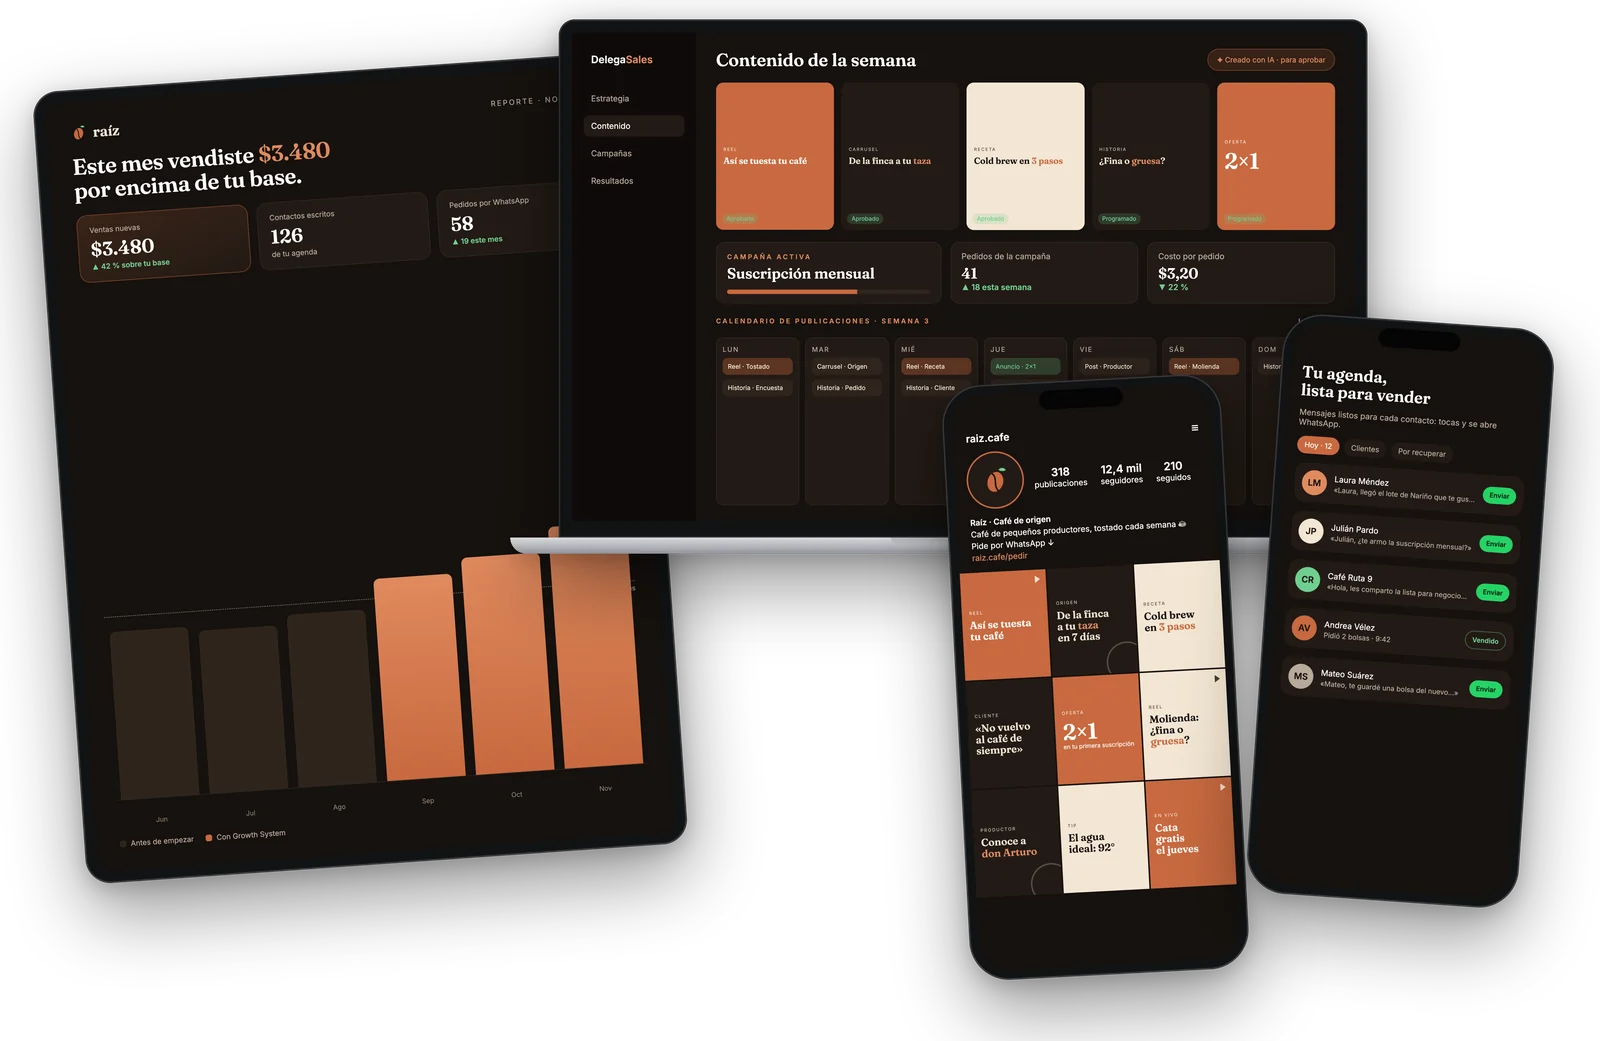
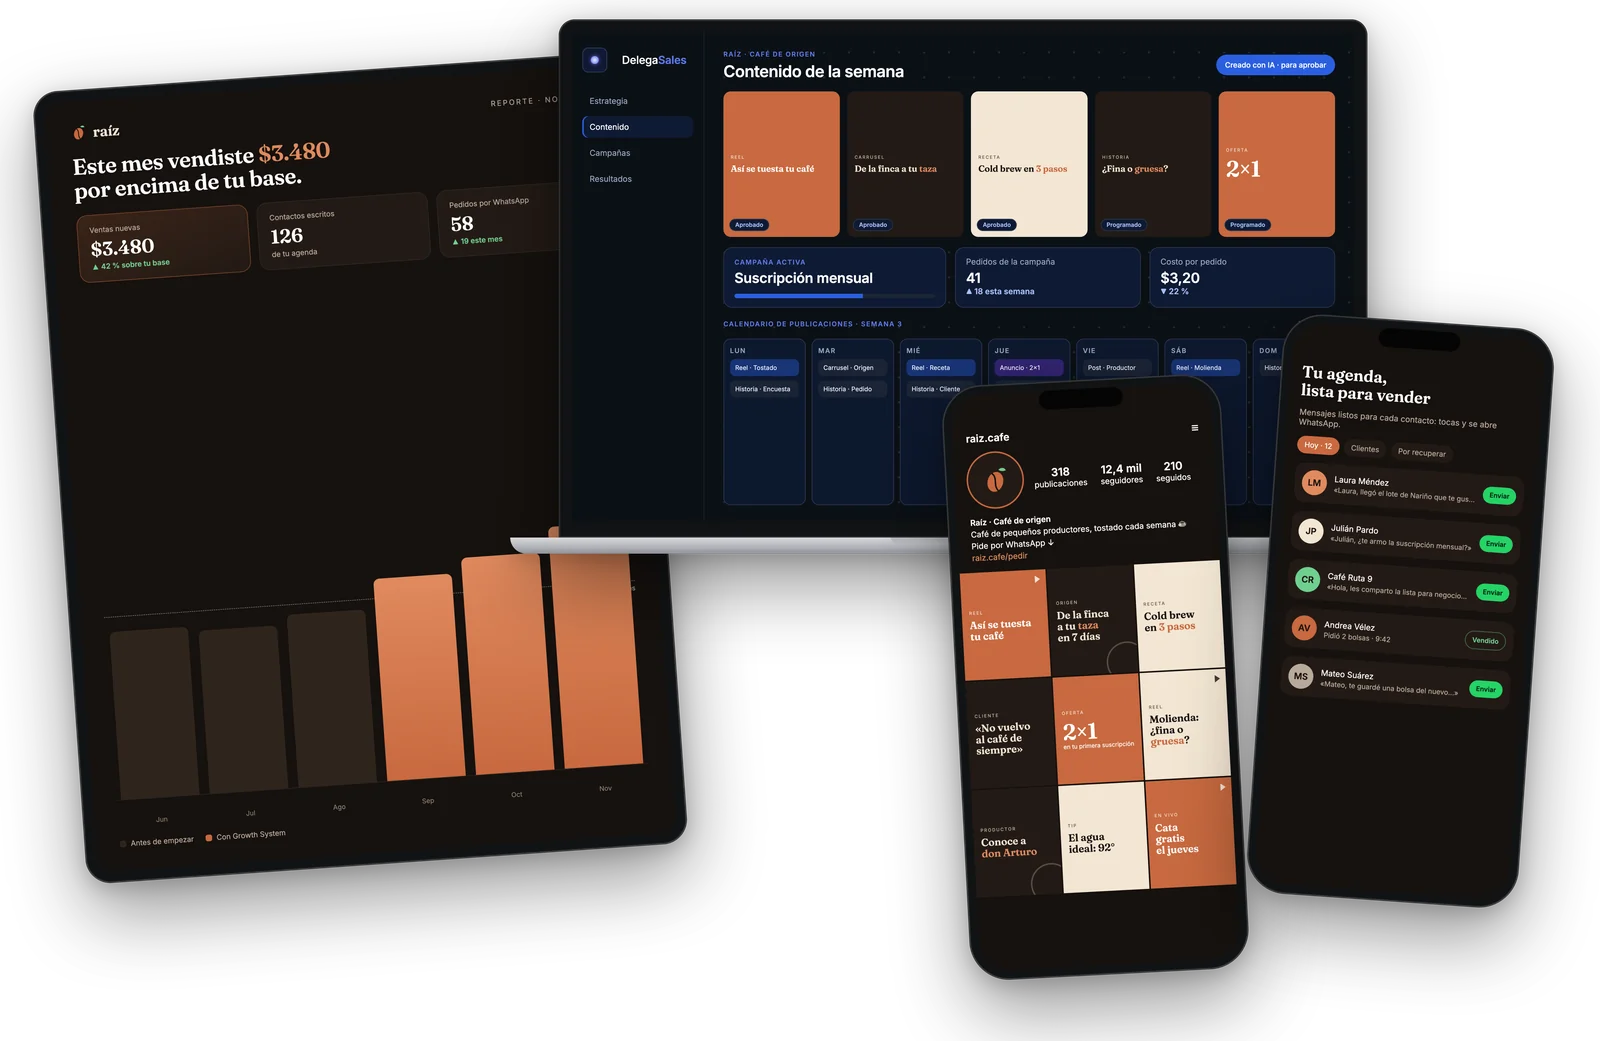
feat(tienda): DelegaSales con su guía de marca en los mockups de Growth

Changed region(s): [[0.3438, 0.0307, 0.8438, 0.4918], [0.75, 0.0307, 0.8438, 0.0922]]

diff --git a/scripts/mockups/growth.html b/scripts/mockups/growth.html
@@ -5,7 +5,7 @@
 <!-- Mockups de Growth System para /tienda (nov 2026). «Raíz · Café de origen»
      es una marca de muestra (no existe) que ya vende y quiere vender cada mes.
      El panel de DelegaWork es la captura real (capturas/delegawork/). DelegaSales
-     se muestra como ilustración. Se fotografía con render.sh growth. -->
+     es ilustración con la guía de marca de Delega Sales (DelegaWork/…pdf). Se fotografía con render.sh growth. -->
 <link href="https://fonts.googleapis.com/css2?family=Fraunces:opsz,wght@9..144,400;9..144,600&family=Inter:wght@300;400;500;600&display=block" rel="stylesheet">
 <style>
   :root {
@@ -121,32 +121,42 @@
   .ct b { font-size: 9px; padding: 6px 9px; border-radius: 99px; background: #25D366; color: #06210F; font-weight: 600; flex: none; }
   .ct b.hecho { background: transparent; color: var(--verde); border: 1px solid rgba(111,207,142,.45); }
 
-  /* ---------- DelegaSales (ilustración) ---------- */
-  .ds { position: absolute; inset: 0; display: grid; grid-template-columns: 170px 1fr; font-size: 11px; }
-  .ds-lado { background: #0F0B09; border-right: 1px solid rgba(255,255,255,.06); padding: 20px 16px; display: flex; flex-direction: column; gap: 8px; color: var(--gris); }
-  .ds-lado .marca { font-family: var(--sans); font-weight: 600; font-size: 14px; color: var(--blanco); margin-bottom: 14px; }
-  .ds-lado .marca em { font-style: normal; color: var(--terra-2); }
+  /* ---------- DelegaSales: guía de marca de Holman (nov 2026) ----------
+     Navy #0B1016 de fondo, caja del logo #0E1A33 con borde #2A3550, esfera
+     azul con halo morado, azul #2B5FE0/#5E78EB solo de Sales, gris #94A3B8,
+     Inter para todo y etiquetas en mayúsculas con .12em. */
+  .ds { position: absolute; inset: 0; display: grid; grid-template-columns: 180px 1fr; font-size: 11px; font-family: "Inter", system-ui, sans-serif; background: #0B1016; color: #94A3B8; }
+  .ds-lado { border-right: 1px solid #1B2436; padding: 20px 14px; display: flex; flex-direction: column; gap: 6px; }
+  .ds-logo { display: flex; align-items: center; gap: 10px; margin-bottom: 18px; }
+  .ds-lado .ds-caja { padding: 0; }
+  .ds-caja { width: 34px; height: 34px; border-radius: 9px; background: #0E1A33; border: 1.5px solid #2A3550; display: grid; place-items: center; flex: none; }
+  .ds-caja svg { width: 26px; height: 26px; }
+  .ds-word { font-size: 15px; color: #FFFFFF; font-weight: 500; letter-spacing: -.01em; }
+  .ds-word b { font-weight: 700; color: #5E78EB; }
   .ds-lado span { padding: 8px 10px; border-radius: 8px; }
-  .ds-lado span.on { background: var(--noche-2); color: var(--blanco); }
-  .ds-main { padding: 22px 26px; display: flex; flex-direction: column; gap: 16px; }
+  .ds-lado span.on { background: #0E1A33; color: #FFFFFF; box-shadow: inset 2px 0 0 #2B5FE0; }
+  .ds-main { padding: 22px 26px; display: flex; flex-direction: column; gap: 14px; position: relative;
+    background-image: radial-gradient(circle, rgba(71,85,105,.35) 1.4px, transparent 1.6px); background-size: 34px 34px; background-position: 10px 10px; }
   .ds-top { display: flex; justify-content: space-between; align-items: center; }
-  .ds-top h2 { font-family: var(--display); font-weight: 600; font-size: 24px; color: var(--blanco); }
-  .ds-top .gen { font-size: 10px; padding: 8px 12px; border-radius: 99px; background: rgba(200,105,63,.18); color: var(--terra-2); border: 1px solid rgba(200,105,63,.4); }
+  .ds-eti { font-size: 9px; font-weight: 700; letter-spacing: .12em; text-transform: uppercase; color: #5E78EB; }
+  .ds-top h2 { font-weight: 700; font-size: 22px; color: #FFFFFF; letter-spacing: -.02em; margin-top: 4px; }
+  .ds-top .gen { font-size: 10px; font-weight: 500; padding: 8px 12px; border-radius: 99px; background: #2B5FE0; color: #FFFFFF; }
   .ds-grid { display: grid; grid-template-columns: repeat(5, 1fr); gap: 10px; }
   .ds-grid .post { border-radius: 10px; }
   .ds-grid .post .q { font-size: 12px; }
-  .ds-est { font-family: var(--sans); font-size: 8px; padding: 3px 6px; border-radius: 99px; background: rgba(111,207,142,.18); color: var(--verde); position: absolute; left: 8px; bottom: 8px; }
+  .ds-est { font-family: "Inter", sans-serif; font-size: 8px; font-weight: 600; padding: 3px 7px; border-radius: 99px; background: #0E1A33; color: #A9BEF7; border: 1px solid #2A3550; position: absolute; left: 8px; bottom: 8px; }
   .ds-camp { display: grid; grid-template-columns: 1.2fr 1fr 1fr; gap: 12px; }
-  .ds-card { background: var(--noche-2); border-radius: 12px; padding: 12px 14px; color: var(--gris); border: 1px solid rgba(255,255,255,.06); }
-  .ds-card b { display: block; font-family: var(--display); font-weight: 600; font-size: 20px; color: var(--blanco); margin-top: 4px; }
-  .ds-card .barra { height: 6px; border-radius: 99px; background: var(--noche-3); margin-top: 10px; overflow: hidden; }
+  .ds-card { background: #0E1A33; border-radius: 12px; padding: 12px 14px; color: #94A3B8; border: 1px solid #2A3550; }
+  .ds-card b { display: block; font-weight: 700; font-size: 19px; color: #FFFFFF; margin-top: 4px; letter-spacing: -.01em; }
+  .ds-card .ok { color: #A9BEF7; font-weight: 600; }
+  .ds-card .barra { height: 6px; border-radius: 99px; background: #1B2436; margin-top: 10px; overflow: hidden; }
+  .ds-card .barra i { display: block; height: 100%; width: var(--p); background: #2B5FE0; }
   .ds-sem { display: grid; grid-template-columns: repeat(7, 1fr); gap: 8px; flex: 1; }
-  .ds-sem div { background: var(--noche-2); border-radius: 10px; padding: 10px 8px; display: flex; flex-direction: column; gap: 6px; border: 1px solid rgba(255,255,255,.05); }
-  .ds-sem small { font-size: 9px; letter-spacing: .14em; text-transform: uppercase; color: var(--gris); }
-  .ds-sem span { font-size: 8.5px; line-height: 1.3; padding: 6px 7px; border-radius: 7px; background: var(--noche-3); color: var(--crema); }
-  .ds-sem span.t { background: rgba(200,105,63,.35); }
-  .ds-sem span.v { background: rgba(111,207,142,.22); color: var(--verde); }
-  .ds-card .barra i { display: block; height: 100%; width: var(--p); background: var(--terra); }
+  .ds-sem div { background: rgba(14,26,51,.85); border-radius: 10px; padding: 10px 8px; display: flex; flex-direction: column; gap: 6px; border: 1px solid #2A3550; }
+  .ds-sem small { font-size: 9px; font-weight: 700; letter-spacing: .12em; text-transform: uppercase; color: #94A3B8; }
+  .ds-sem span { font-size: 8.5px; line-height: 1.3; padding: 6px 7px; border-radius: 7px; background: #1B2436; color: #E6ECFE; }
+  .ds-sem span.t { background: rgba(43,95,224,.4); }
+  .ds-sem span.v { background: rgba(124,58,237,.35); color: #E6ECFE; }
 
   /* ---------- Regalo + correo automático ---------- */
   .rg { padding: 54px 18px 18px; height: 100%; display: flex; flex-direction: column; gap: 14px; }
@@ -195,6 +205,15 @@
       <ellipse cx="32" cy="36" rx="17" ry="22" fill="currentColor" transform="rotate(18 32 36)"/>
       <path d="M26 18 C 38 28, 26 44, 38 56" fill="none" stroke="#16110E" stroke-width="3.2" stroke-linecap="round"/>
       <path d="M40 10 C 46 4, 54 6, 56 12 C 50 14, 44 14, 40 10 Z" fill="#6FCF8E"/>
+    </symbol>
+    <!-- Logo de Delega Sales: esfera azul con halo morado (guía de marca, nov 2026) -->
+    <radialGradient id="dsCore" cx="50%" cy="50%" r="62%"><stop offset="0%" stop-color="#E6ECFE"/><stop offset="40%" stop-color="#A9BEF7"/><stop offset="100%" stop-color="#5E78EB"/></radialGradient>
+    <radialGradient id="dsBloomFill" cx="50%" cy="50%" r="50%"><stop offset="0%" stop-color="#9163E8" stop-opacity="0.95"/><stop offset="100%" stop-color="#7C3AED" stop-opacity="0"/></radialGradient>
+    <filter id="dsBlur" x="-100%" y="-100%" width="300%" height="300%" color-interpolation-filters="sRGB"><feGaussianBlur stdDeviation="6.5"/></filter>
+    <symbol id="ds-nucleo" viewBox="0 0 120 120">
+      <circle cx="60" cy="60" r="46" fill="url(#dsBloomFill)" opacity="0.6" filter="url(#dsBlur)"/>
+      <circle cx="60" cy="60" r="34" fill="url(#dsBloomFill)" opacity="0.8" filter="url(#dsBlur)"/>
+      <circle cx="60" cy="60" r="25" fill="url(#dsCore)"/>
     </symbol>
   </defs>
 </svg>
@@ -269,14 +288,21 @@
 <template id="t-ds">
   <div class="ds">
     <div class="ds-lado">
-      <span class="marca">Delega<em>Sales</em></span>
+      <div class="ds-logo">
+        <span class="ds-caja"><svg viewBox="0 0 120 120" aria-hidden="true">
+          <circle cx="60" cy="60" r="46" fill="url(#dsBloomFill)" opacity="0.6" filter="url(#dsBlur)"/>
+          <circle cx="60" cy="60" r="34" fill="url(#dsBloomFill)" opacity="0.8" filter="url(#dsBlur)"/>
+          <circle cx="60" cy="60" r="25" fill="url(#dsCore)"/>
+        </svg></span>
+        <span class="ds-word">Delega<b>Sales</b></span>
+      </div>
       <span>Estrategia</span>
       <span class="on">Contenido</span>
       <span>Campañas</span>
       <span>Resultados</span>
     </div>
     <div class="ds-main">
-      <div class="ds-top"><h2>Contenido de la semana</h2><span class="gen">✦ Creado con IA · para aprobar</span></div>
+      <div class="ds-top"><div><span class="ds-eti">Raíz · Café de origen</span><h2>Contenido de la semana</h2></div><span class="gen">Creado con IA · para aprobar</span></div>
       <div class="ds-grid">
         <div class="post t"><small>Reel</small><span class="q">Así se tuesta tu café</span><span class="ds-est">Aprobado</span></div>
         <div class="post n"><small>Carrusel</small><span class="q">De la finca a tu <em>taza</em></span><span class="ds-est">Aprobado</span></div>
@@ -285,11 +311,11 @@
         <div class="post t"><small>Oferta</small><span class="num">2×1</span><span class="ds-est">Programado</span></div>
       </div>
       <div class="ds-camp">
-        <div class="ds-card"><span class="kick">Campaña activa</span><b>Suscripción mensual</b><div class="barra" style="--p:64%"><i></i></div></div>
-        <div class="ds-card">Pedidos de la campaña<b>41</b><span class="sube">▲ 18 esta semana</span></div>
-        <div class="ds-card">Costo por pedido<b>$3,20</b><span class="sube">▼ 22 %</span></div>
+        <div class="ds-card"><span class="ds-eti">Campaña activa</span><b>Suscripción mensual</b><div class="barra" style="--p:64%"><i></i></div></div>
+        <div class="ds-card">Pedidos de la campaña<b>41</b><span class="ok">▲ 18 esta semana</span></div>
+        <div class="ds-card">Costo por pedido<b>$3,20</b><span class="ok">▼ 22 %</span></div>
       </div>
-      <div class="ds-top" style="margin-top:2px"><span class="kick">Calendario de publicaciones · Semana 3</span><span style="font-size:10px;color:var(--gris)">Lun – Dom</span></div>
+      <div class="ds-top" style="margin-top:2px"><span class="ds-eti">Calendario de publicaciones · Semana 3</span><span style="font-size:10px">Lun – Dom</span></div>
       <div class="ds-sem">
         <div><small>Lun</small><span class="t">Reel · Tostado</span><span>Historia · Encuesta</span></div>
         <div><small>Mar</small><span>Carrusel · Origen</span><span>Historia · Pedido</span></div>
